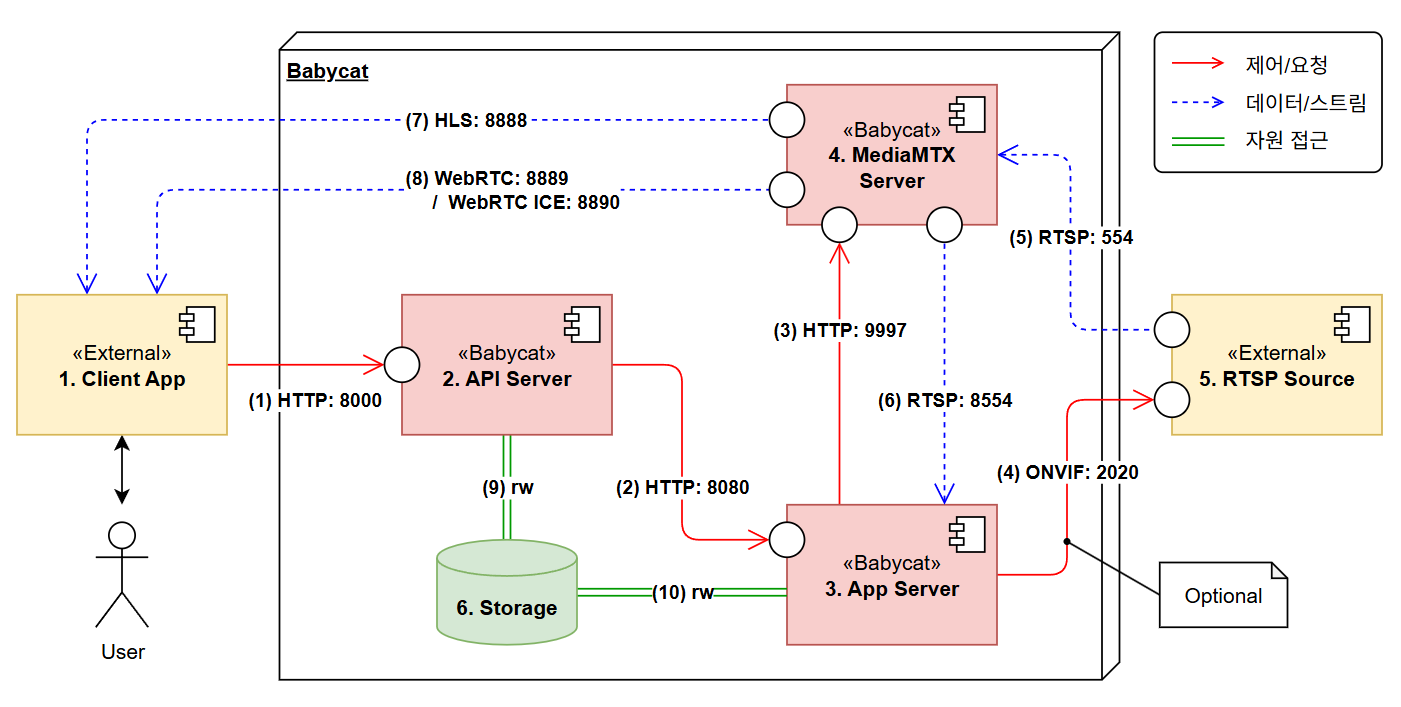
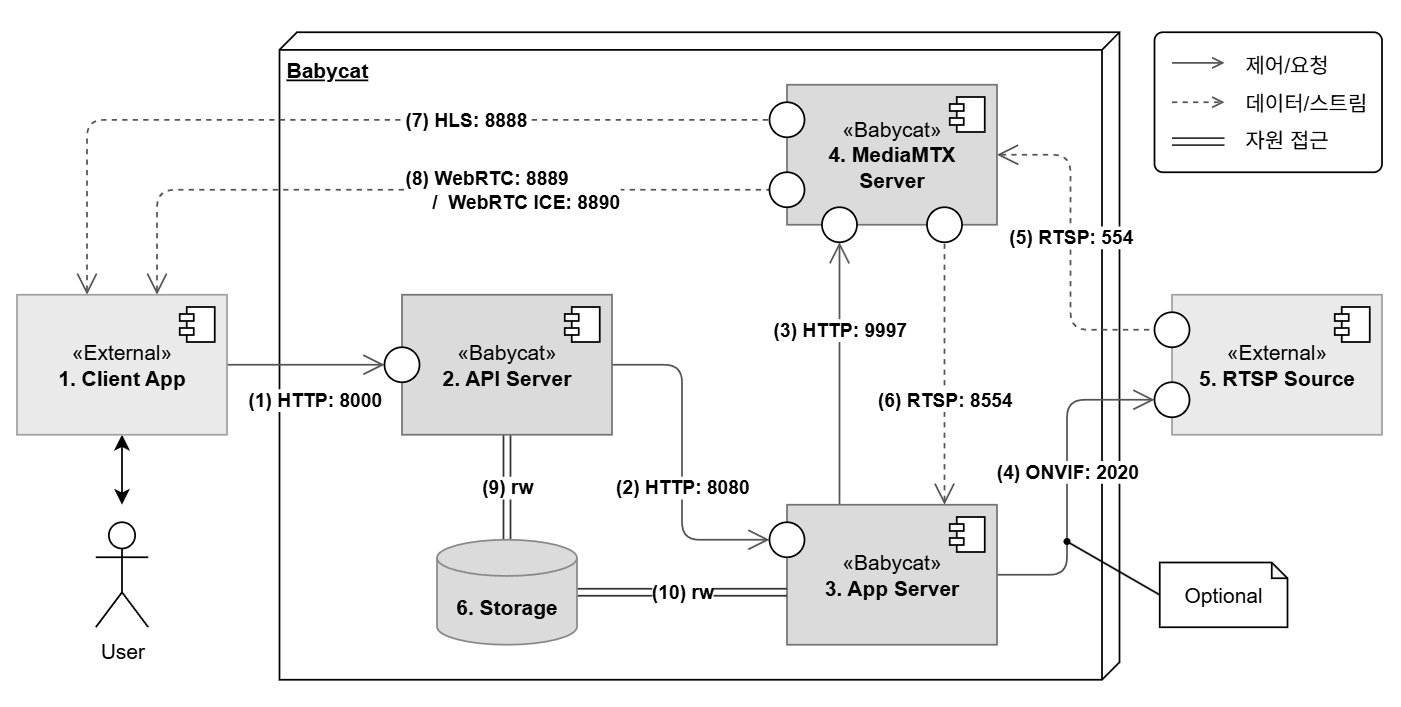
Restructure section 1 into per-component descriptions
features.md §1을 1.1 외부 시스템/요소, 1.2 내부 컴포넌트, 1.3 컴포넌트 간
연결로 재편하고 각 컴포넌트를 글머리표로 기술. 간선 3종(제어/데이터/자원
접근) 설명 추가. 컴포넌트별 책임·Storage 접근 패턴을 도식과 정합하게 정리.

diff --git a/design/draft/features.md b/design/draft/features.md
@@ -2,22 +2,53 @@
 
 ## 1. 전체 시스템 구성
 ![arch](arch.png)
-상기한 도식은 Babycat을 구성하는 6개 컴포넌트와 그 사이의 10개 연결을 나타낸다. 사용자(운영자)는 Client App(1)을 통해 시스템과 상호작용하며, 모든 기능 요청은 API Server(2)를 단일 진입점으로 삼는다. 라이브 영상만은 MediaMTX Server(4)에서 직접 수신한다.
+사용자의 모든 제어 및 기능 요청은 ***Client App***을 통해 단일 진입점인 ***API Server***를 거쳐 시스템으로 전달된다. 단, HLS/WebRTC 실시간 스트림은 트래픽 분리 및 효율성을 위해 ***MediaMTX Server***가 직접 ***Client App***로 송출한다. 
 
-### 1.1 컴포넌트 구성
-컴포넌트는 외부 컴포넌트 2개(1, 5)와 내부 컴포넌트 4개(2, 3, 4, 6)로 구성된다. 내부 컴포넌트 중 2·3·4는 실행되는 프로세스(능동)이며, 6은 데이터 저장소(수동 자원)이다.
+### 1.1 외부 시스템/요소
 
-|태그|이름|설명|
-|---|---|---|
-|1|Client App|운영자가 사용하는 외부 클라이언트. 모든 기능 요청의 시작점이며 API Server를 단일 진입점으로 사용한다. 라이브 영상만 MediaMTX Server에서 직접 받는다.|
-|2|API Server|시스템의 단일 외부 진입점. 클라이언트를 JWT로 인증하고, 계정·이벤트·클립 조회를 직접 처리하며, RTSP Source 설정 등 일부 계약은 App Server로 프록시한다.|
-|3|App Server|핵심 처리 컴포넌트. GStreamer 파이프라인으로 스트림을 받아 VLM 추론·이벤트 감지·클립 저장을 수행하고, MediaMTX 소스 설정과 ONVIF PTZ 제어를 담당한다.|
-|4|MediaMTX Server|미디어 서버. RTSP Source의 H.264 스트림을 수신하여 내부에는 RTSP(8554)로 재공급하고, 클라이언트에는 HLS/WebRTC로 재배포한다.|
-|5|RTSP Source|H.264 RTSP 스트림을 제공하는 외부 소스. ONVIF를 지원하는 경우 PTZ 제어를 받는다.|
-|6|Storage|수동 데이터 자원. `./data` 바인드 마운트와 SQLite로 구성되며, 클립·메타데이터·이벤트 DB·RTSP Source 프로필을 영속화한다. API Server와 App Server가 공유한다.|
+전체 시스템 구성도에서 Babycat 외부의 두 요소; ***Client App***과 ***RTSP Source***를 컴포넌트 박스로 표현하고 있으나, 엄밀히 이들은 외부 컴포넌트가 아닌, 외부 시스템 또는 외부 요소라고 표현하는 것이 더 정확하다. 그러나 UML 컴포넌트 다이어그램은 외부 의존 대상도 «External» 스테레오타입을 붙인 컴포넌트 박스로 그리는 관행이 있으므로, 편의상 컴포넌트 박스로 표현되었음을 미리 언급한다.
 
-### 1.2 컴포넌트 간 연결
-컴포넌트 간 연결은 프로토콜·포트와 방향을 아래와 같이 정의한다. 화살표 방향과 그 의미(제어/요청·데이터/스트림·자원 접근)는 도식의 범례를 따른다. 외부에 공개되는 포트는 (1) 8000과 라이브 스트리밍 (7)·(8)이며, (2)·(3)·(6)·(9)·(10)은 Docker 내부 전용, (4)·(5)는 카메라와의 LAN 구간이다.
+- ***Client App***
+  - 사용자용 프론트엔드 앱
+
+- ***RTSP Source***
+  - H.264 기반 RTSP 스트림을 ***MediaMTX Server***에 제공하는 외부 영상 소스
+  - ONVIF를 지원할 경우 ***App Server***에서 PTZ 제어 가능
+
+### 1.2 내부 컴포넌트
+
+- ***API Server***
+  - `Babycat`의 단일 외부 진입점
+  - ***Client App*** 인증(JWT), 계정·이벤트·클립 조회와 같은 요청은 직접 처리
+  - ***RTSP Source*** 프로필 설정 등 일부 요청은 ***App Server***로 프록시
+  - ***Storage***의 이벤트·사용자 DB에 읽기·쓰기 가능 (rw)
+  - ***Storage***의 클립 파일을 조회·삭제 가능
+
+- ***App Server***
+  - `Babycat`의 핵심 컴포넌트
+  - ***MediaMTX Server***의 스트림을 수신해 VLM 추론과 이벤트 감지를 수행
+  - ***RTSP Source*** 프로필 설정 및 PTZ 제어
+  - 이벤트 감지 시 해당 시점을 비디오 클립으로 ***Storage***에 쓰기 가능
+  - 실시간 모니터링 피드(MJPEG·SSE) 제공
+
+- ***MediaMTX Server***
+  - `Babycat`의 미디어 서버
+  - ***RTSP Source***의 H.264 기반 RTSP 스트림을 ***Client App***과 ***App Server***에 재배포
+
+- ***Storage***
+  - `Babycat`의 영속 데이터 저장소 (`./data` 바인드 마운트 + SQLite)
+  - 클립·메타데이터·이벤트 DB 그리고 ***RTSP Source*** 프로필을 영속화
+  - ***API Server***와 ***App Server***가 공유
+  - 스스로 통신을 개시하지 않고 읽기·쓰기 요청에 응답만 가능
+
+### 1.3 컴포넌트 간 연결
+컴포넌트 간 연결은 프로토콜·포트와 방향을 아래와 같이 정의한다. 간선은 도식의 범례에 따라 세 종류로 구분되며, 종류마다 화살표가 가리키는 의미가 다르다.
+
+- **제어/요청** (실선): 한 컴포넌트가 다른 컴포넌트를 호출하는 동기적 요청·응답. 화살표는 요청을 *개시*하는 방향을 가리킨다.
+- **데이터/스트림** (점선): 연속적인 미디어가 한 방향으로 흐르는 경로. 화살표는 *데이터 흐름* 방향을 가리킨다(개시 방향과 반대일 수 있다).
+- **자원 접근** (이중선): 능동 컴포넌트가 수동 자원(Storage)을 읽고 쓰는 접근. 방향 없이 `rw`로 표기한다.
+
+외부에 공개되는 포트는 (1) 8000과 라이브 스트리밍 (7)·(8)이며, (2)·(3)·(6)·(9)·(10)은 Docker 내부 전용, (4)·(5)는 카메라와의 LAN 구간이다.
 
 |태그|프로토콜|포트|설명|
 |---|---|---|---|